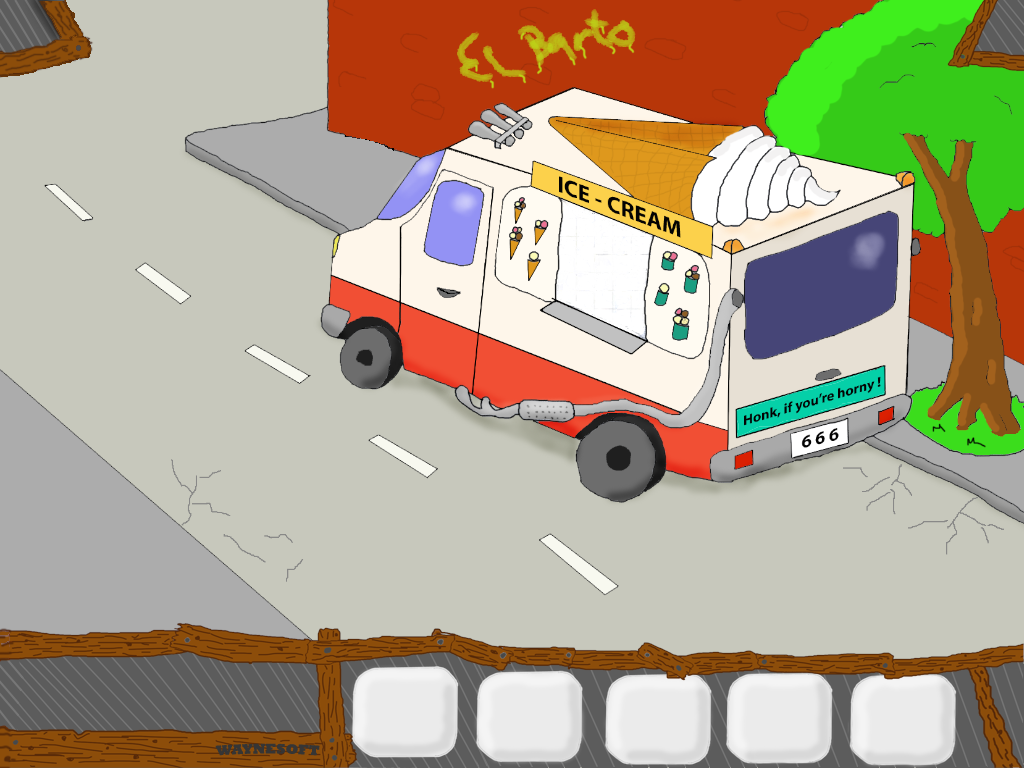
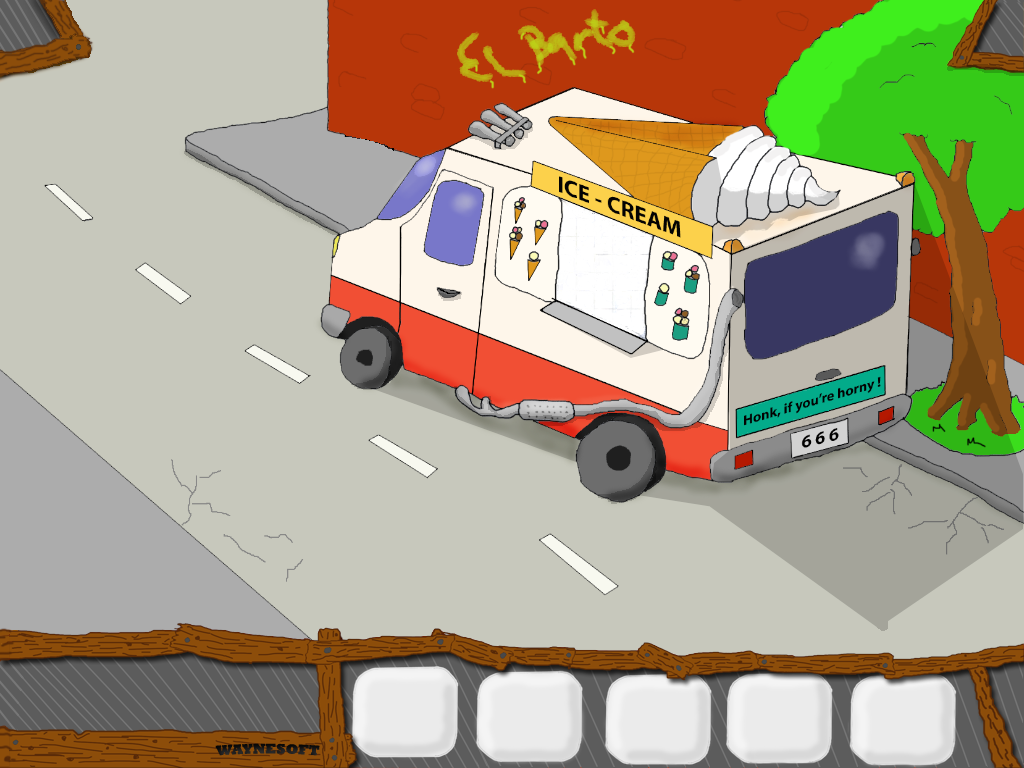
Mehr Objekte für Außen, verbessertes Menü und Hintergrund Bild.

diff --git a/core/src/org/wanne/screens/OutsideScreen.kt b/core/src/org/wanne/screens/OutsideScreen.kt
@@ -8,8 +8,11 @@ import com.badlogic.gdx.utils.viewport.FitViewport
 import org.wanne.game.WanneGame
 import org.wanne.game.listener.PointAndClickListener
 import org.wanne.game.stage.PointAndClickAwareStage
+import org.wanne.model.objects.Graffiti
+import org.wanne.model.objects.HonkSign
 import org.wanne.model.objects.IceMenuLeft
 import org.wanne.model.objects.IceMenuRight
+import org.wanne.model.objects.Street
 import org.wanne.model.player.Duck
 import org.wanne.model.player.Player
 import org.wanne.model.player.PoolAttendant
@@ -18,8 +21,8 @@ class OutsideScreen(
     private var game: WanneGame,
 ) : AbstractWalkableScreen(game) {
     // Background
-    private val roomBackgroundSingle: Texture = Texture(Gdx.files.internal("pictures/Backgrounds/OutsideSingle.png"))
-    private val roomBackgroundMulti: Texture = Texture(Gdx.files.internal("pictures/Backgrounds/Outside.png"))
+    private val outsideBackgroundSingle: Texture = Texture(Gdx.files.internal("pictures/Backgrounds/OutsideSingle.png"))
+    private val outsideBackgroundMulti: Texture = Texture(Gdx.files.internal("pictures/Backgrounds/Outside.png"))
 
     // Raum Lauf-Limits => links,unten,rechts,oben
     private val limits = intArrayOf(70, 129, 934, 235)
@@ -34,6 +37,9 @@ class OutsideScreen(
     // Objects
     private val iceMenuLeft = IceMenuLeft()
     private val iceMenuRight = IceMenuRight()
+    private val honkSign = HonkSign()
+    private val street = Street()
+    private val graffiti = Graffiti()
 
     override fun show() {
         Gdx.graphics.setWindowedMode(1024, 768)
@@ -44,9 +50,9 @@ class OutsideScreen(
 
         // Hintergrund setzen
         if (game.isSingleplayer) {
-            stage.addActor(Image(roomBackgroundSingle))
+            stage.addActor(Image(outsideBackgroundSingle))
         } else {
-            stage.addActor(Image(roomBackgroundMulti))
+            stage.addActor(Image(outsideBackgroundMulti))
         }
 
         musicBackground.volume = 0.4F
@@ -72,6 +78,9 @@ class OutsideScreen(
         // Objekte hinzufügen (Reihenfolge ist wichtig)
         iceMenuLeft.addToStage(stage, skin = game.skin)
         iceMenuRight.addToStage(stage, skin = game.skin)
+        honkSign.addToStage(stage, skin = game.skin)
+        street.addToStage(stage, skin = game.skin)
+        graffiti.addToStage(stage, skin = game.skin)
     }
 
     override fun resetPlayerAndSound() {

diff --git a/core/src/org/wanne/model/objects/Street.kt b/core/src/org/wanne/model/objects/Street.kt
@@ -1,0 +1,43 @@
+package org.wanne.model.objects
+
+import com.badlogic.gdx.graphics.g2d.Sprite
+import org.wanne.model.Point
+import org.wanne.model.PointAndClickAction
+import org.wanne.model.dialog.DialogBoard
+import org.wanne.model.player.Player
+
+class Street(
+    posX: Float = 0F,
+    posY: Float = 538F,
+) : GameObject(posX, posY) {
+    init {
+        x = posX
+        y = posY
+        height = getSprite().height
+        width = getSprite().width
+    }
+
+    override fun getSprite(): Sprite = addPositionToSprite(itemAtlas.createSprite("Strasse"))
+
+    override fun getName(): String = "Street"
+
+    override fun look(dialogBoard: DialogBoard) {
+        dialogBoard.prepLookAt("Wir können noch nicht gehen.", "Ich will Eis!")
+    }
+
+    override fun use(
+        dialogBoard: DialogBoard,
+        action: PointAndClickAction,
+    ) {
+        dialogBoard.prepUseIt(
+            "Nein, ich will Eis!",
+            null,
+            action,
+        )
+        action.reset()
+    }
+
+    override fun getInteractPosition(): Pair<Point, Player.Companion.Looking?> = Pair(Point(200, 220), Player.Companion.Looking.LEFT)
+
+    override fun getToolTipDescription(): String = "Straßenkreuzung"
+}

diff --git a/core/src/org/wanne/model/objects/HonkSign.kt b/core/src/org/wanne/model/objects/HonkSign.kt
@@ -1,0 +1,38 @@
+package org.wanne.model.objects
+
+import com.badlogic.gdx.graphics.g2d.Sprite
+import org.wanne.model.Point
+import org.wanne.model.PointAndClickAction
+import org.wanne.model.dialog.DialogBoard
+import org.wanne.model.player.Player
+
+class HonkSign(
+    posX: Float = 740F,
+    posY: Float = 330F,
+) : GameObject(posX, posY) {
+    init {
+        x = posX
+        y = posY
+        height = getSprite().height
+        width = getSprite().width
+    }
+
+    override fun getSprite(): Sprite = addPositionToSprite(itemAtlas.createSprite("HornySchild"))
+
+    override fun getName(): String = "HonkSign"
+
+    override fun look(dialogBoard: DialogBoard) {
+        dialogBoard.prepLookAt("'Honk, if you're horny'? ", "Ich bin ehr hungry!")
+    }
+
+    override fun take(
+        dialogBoard: DialogBoard,
+        action: PointAndClickAction,
+    ) {
+        dialogBoard.prepLookAt("Ne, ich glaub nicht das wir den brauchen. ")
+    }
+
+    override fun getInteractPosition(): Pair<Point, Player.Companion.Looking?> = Pair(Point(650, 170), Player.Companion.Looking.RIGHT)
+
+    override fun getToolTipDescription(): String = "Aufkleber"
+}

diff --git a/core/src/org/wanne/model/objects/Telephone.kt b/core/src/org/wanne/model/objects/Telephone.kt
@@ -84,15 +84,18 @@ class Telephone(
             }
 
             if (numberOfWinningObjectsInInventory == 3) {
+                game.possessWinningObjects = true
+                game.screen = game.cowPhoneScreen
+                action.inventory.removeGameObject(winningRequiredGameObjectList[0])
+                action.inventory.removeGameObject(winningRequiredGameObjectList[1])
+                action.inventory.removeGameObject(winningRequiredGameObjectList[2])
+            } else {
                 // Wenn die Kuh die Tür schon aufgemacht hat, ist besetzt
                 if (game.cowIsBusy) {
                     dialogBoard.prepLookAt("Piep, Piep, Piep...", "Scheint besetzt zu sein.")
                 } else {
-                    game.possessWinningObjects = true
                     game.screen = game.cowPhoneScreen
                 }
-            } else {
-                game.screen = game.cowPhoneScreen
             }
 
             action.reset()

diff --git a/core/src/org/wanne/model/objects/Graffiti.kt b/core/src/org/wanne/model/objects/Graffiti.kt
@@ -1,0 +1,30 @@
+package org.wanne.model.objects
+
+import com.badlogic.gdx.graphics.g2d.Sprite
+import org.wanne.model.Point
+import org.wanne.model.dialog.DialogBoard
+import org.wanne.model.player.Player
+
+class Graffiti(
+    posX: Float = 450F,
+    posY: Float = 674F,
+) : GameObject(posX, posY) {
+    init {
+        x = posX
+        y = posY
+        height = getSprite().height
+        width = getSprite().width
+    }
+
+    override fun getSprite(): Sprite = addPositionToSprite(itemAtlas.createSprite("Grafitti"))
+
+    override fun getName(): String = "Graffiti"
+
+    override fun look(dialogBoard: DialogBoard) {
+        dialogBoard.prepLookAt("Der Name kommt mir bekannt vor...")
+    }
+
+    override fun getInteractPosition(): Pair<Point, Player.Companion.Looking?> = Pair(Point(200, 220), Player.Companion.Looking.RIGHT)
+
+    override fun getToolTipDescription(): String = "Graffiti"
+}

diff --git a/core/src/org/wanne/screens/RoomScreen.kt b/core/src/org/wanne/screens/RoomScreen.kt
@@ -105,7 +105,7 @@ class RoomScreen(
             stage.addActor(Image(roomBackgroundMulti))
         }
 
-        musicBackground.volume = 0.4F
+        musicBackground.volume = 0.2F
         musicBackground.isLooping = true
         musicBackground.play()
 
@@ -150,9 +150,9 @@ class RoomScreen(
         note.addToStage(stage, game.skin)
 
         // Der Ausgang darf nur am Ende auf sein :)
-//        exit.isVisible = false
-        exit.isVisible = true
-        door.isVisible = false
+        exit.isVisible = false
+//        exit.isVisible = true
+//        door.isVisible = false
 
         // Wenn wir aus der Kuh Szene zurückkommen, ist die Notiz im Inventar und muss sicher bleiben.
         if (!stage.currentAction.inventory.isObjectInInventory(note)) {

diff --git a/core/src/org/wanne/model/objects/IceMenuRight.kt b/core/src/org/wanne/model/objects/IceMenuRight.kt
@@ -7,7 +7,7 @@ import org.wanne.model.player.Player
 
 class IceMenuRight(
     posX: Float = 647F,
-    posY: Float = 410F,
+    posY: Float = 411F,
 ) : GameObject(posX, posY) {
     init {
         x = posX
@@ -21,7 +21,7 @@ class IceMenuRight(
     override fun getName(): String = "IceMenuRight"
 
     override fun look(dialogBoard: DialogBoard) {
-        dialogBoard.prepLookAt("Eis, Eis, Baby!...")
+        dialogBoard.prepLookAt("Eis, Eis, Baby!...", "Lecker!")
     }
 
     override fun getInteractPosition(): Pair<Point, Player.Companion.Looking?> = Pair(Point(550, 200), Player.Companion.Looking.RIGHT)

diff --git a/core/src/org/wanne/model/objects/Exit.kt b/core/src/org/wanne/model/objects/Exit.kt
@@ -45,7 +45,10 @@ class Exit(
         dialogBoard: DialogBoard,
         action: PointAndClickAction,
     ) {
-        game.screen = game.outsideScreen
+        dialogBoard.prepLookAt(
+            "Wie soll ich denn den Ausgang mit was kombinieren?",
+            "Probiers mal mit 'Benutzen' :) ",
+        )
     }
 
     override fun talk(

diff --git a/core/src/org/wanne/screens/PuzzleScreen.kt b/core/src/org/wanne/screens/PuzzleScreen.kt
@@ -39,7 +39,7 @@ class PuzzleScreen(
         Gdx.graphics.setWindowedMode(1024, 768)
         viewport = FitViewport(1024f, 768f)
 
-        musicBackground.volume = 0.4F
+        musicBackground.volume = 0.2F
         musicBackground.isLooping = true
         musicBackground.play()
 

diff --git a/core/src/org/wanne/model/objects/IceMenuLeft.kt b/core/src/org/wanne/model/objects/IceMenuLeft.kt
@@ -6,8 +6,8 @@ import org.wanne.model.dialog.DialogBoard
 import org.wanne.model.player.Player
 
 class IceMenuLeft(
-    posX: Float = 491F,
-    posY: Float = 472F,
+    posX: Float = 492F,
+    posY: Float = 473F,
 ) : GameObject(posX, posY) {
     init {
         x = posX
